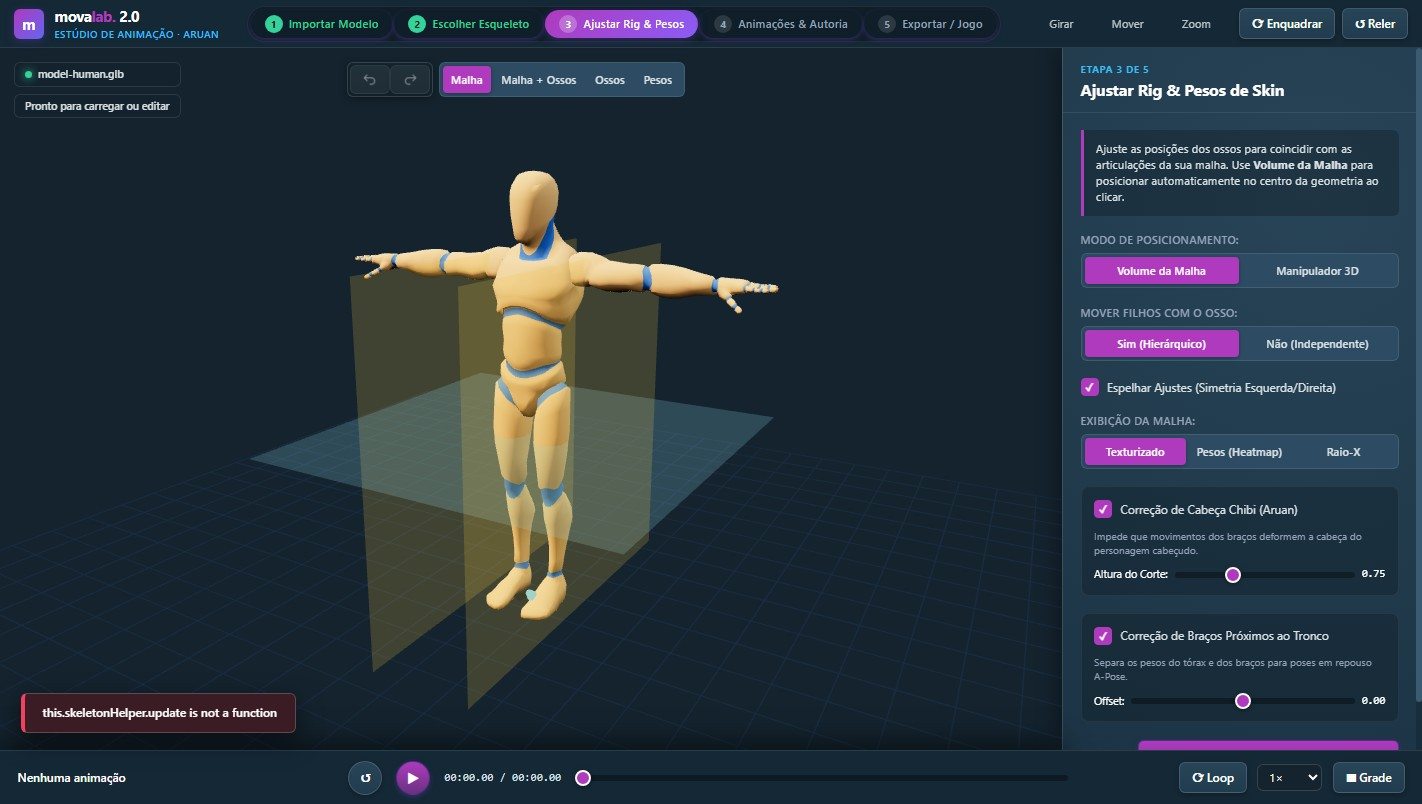
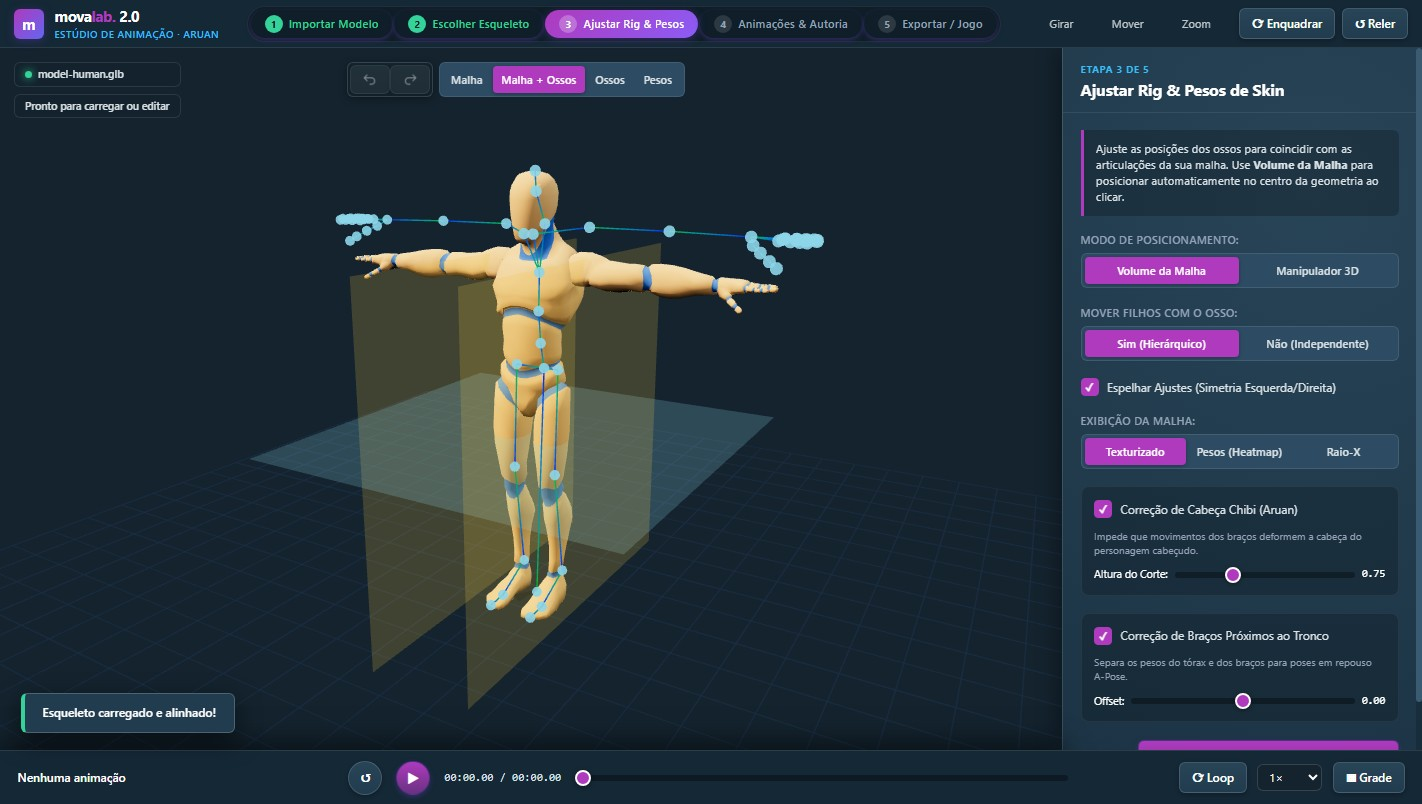
fix(movalab): fix skeleton helper update and ensure skeleton handles are visible in step 2

diff --git a/tools/movalab/app/viewer3d.js b/tools/movalab/app/viewer3d.js
@@ -410,13 +410,17 @@ export class MovaViewer {
     this.templateSkeleton = skeleton;
     this.templateSkeletonRoot = root;
     this.stageGroup.add(root);
+    root.updateWorldMatrix(true, true);
 
     // Create SkeletonHelper
     this.skeletonHelper = new THREE.SkeletonHelper(root);
     this.skeletonHelper.material.depthTest = false;
+    this.skeletonHelper.material.depthWrite = false;
     this.skeletonHelper.material.transparent = true;
-    this.skeletonHelper.material.opacity = 0.9;
+    this.skeletonHelper.material.opacity = 0.95;
     this.skeletonHelper.material.color.set(0x38bdf8);
+    this.skeletonHelper.renderOrder = 999;
+    this.skeletonHelper.visible = true;
     this.scene.add(this.skeletonHelper);
 
     // Build interactive handle pickers for each bone
@@ -435,17 +439,19 @@ export class MovaViewer {
   autoFitSkeleton() {
     if (!this.templateSkeleton || !this.characterMesh) return;
     const root = this.templateSkeletonRoot || this.templateSkeleton.bones[0];
-    RigTemplateService.autoFitSkeletonToMesh(root, this.characterMesh);
+    const fitResult = RigTemplateService.autoFitSkeletonToMesh(root, this.characterMesh);
+    root.updateWorldMatrix(true, true);
     this.updateBoneHandles();
     this.undoRedo.snapshot(this.templateSkeleton);
     this.dirty = true;
+    return fitResult;
   }
 
   scaleSkeleton(scale) {
     if (!this.templateSkeleton) return;
     const root = this.templateSkeletonRoot || this.templateSkeleton.bones[0];
     root.scale.set(scale, scale, scale);
-    root.updateMatrixWorld(true);
+    root.updateWorldMatrix(true, true);
     this.updateBoneHandles();
     this.dirty = true;
   }
@@ -478,24 +484,30 @@ export class MovaViewer {
     this.boneHandles.clear();
     if (!this.templateSkeleton) return;
 
-    const geo = new THREE.SphereGeometry(1.6, 12, 12);
+    const geo = new THREE.SphereGeometry(2.2, 12, 12);
     const mat = new THREE.MeshBasicMaterial({
       color: 0x38bdf8,
       transparent: true,
-      opacity: 0.65,
-      depthTest: false
+      opacity: 0.9,
+      depthTest: false,
+      depthWrite: false
     });
 
     for (const bone of this.templateSkeleton.bones) {
       const handle = new THREE.Mesh(geo.clone(), mat.clone());
+      handle.renderOrder = 1000;
       handle.userData.bone = bone;
       handle.name = 'handle_' + bone.name;
       this.boneHandles.add(handle);
     }
+    this.boneHandles.visible = true;
     this.updateBoneHandles();
   }
 
   updateBoneHandles() {
+    if (this.templateSkeletonRoot) {
+      this.templateSkeletonRoot.updateWorldMatrix(true, true);
+    }
     for (const handle of this.boneHandles.children) {
       const bone = handle.userData.bone;
       if (bone) {
@@ -509,7 +521,9 @@ export class MovaViewer {
         }
       }
     }
-    if (this.skeletonHelper) this.skeletonHelper.update();
+    if (this.skeletonHelper) {
+      this.skeletonHelper.updateMatrixWorld(true);
+    }
     this.dirty = true;
   }
 
@@ -627,25 +641,53 @@ export class MovaViewer {
     this.displayMode = mode;
     if (!this.characterMesh) return;
 
-    if (mode === 'weights' && this.weightsData && this.selectedBone) {
+    if (mode === 'skeleton') {
+      this.characterMesh.visible = false;
+      if (this.skeletonHelper) this.skeletonHelper.visible = true;
+      this.boneHandles.visible = true;
+    } else if (mode === 'mesh') {
+      this.characterMesh.visible = true;
+      if (this.characterMesh.material) {
+        this.characterMesh.material.vertexColors = false;
+        this.characterMesh.material.transparent = false;
+        this.characterMesh.material.opacity = 1.0;
+        this.characterMesh.material.wireframe = this.wireframe;
+        this.characterMesh.material.needsUpdate = true;
+      }
+      if (this.skeletonHelper) this.skeletonHelper.visible = false;
+      this.boneHandles.visible = false;
+    } else if (mode === 'both') {
+      this.characterMesh.visible = true;
+      if (this.characterMesh.material) {
+        this.characterMesh.material.vertexColors = false;
+        this.characterMesh.material.transparent = false;
+        this.characterMesh.material.opacity = 1.0;
+        this.characterMesh.material.wireframe = this.wireframe;
+        this.characterMesh.material.needsUpdate = true;
+      }
+      if (this.skeletonHelper) this.skeletonHelper.visible = true;
+      this.boneHandles.visible = true;
+    } else if (mode === 'weights' && this.weightsData && this.selectedBone) {
+      this.characterMesh.visible = true;
       const boneIndex = this.templateSkeleton?.bones.indexOf(this.selectedBone) ?? 0;
       SkinningPipeline.applyHeatmapColors(this.characterMesh.geometry, Math.max(0, boneIndex), this.weightsData);
       if (this.characterMesh.material) {
         this.characterMesh.material.vertexColors = true;
         this.characterMesh.material.needsUpdate = true;
       }
-    } else {
+      if (this.skeletonHelper) this.skeletonHelper.visible = true;
+      this.boneHandles.visible = true;
+    } else if (mode === 'xray') {
+      this.characterMesh.visible = true;
       if (this.characterMesh.material) {
         this.characterMesh.material.vertexColors = false;
-        this.characterMesh.material.wireframe = mode === 'xray' || this.wireframe;
-        this.characterMesh.material.transparent = mode === 'xray';
-        this.characterMesh.material.opacity = mode === 'xray' ? 0.45 : 1.0;
+        this.characterMesh.material.transparent = true;
+        this.characterMesh.material.opacity = 0.45;
+        this.characterMesh.material.wireframe = this.wireframe;
         this.characterMesh.material.needsUpdate = true;
       }
-    }
-
-    if (this.skeletonHelper) {
-      this.skeletonHelper.visible = mode === 'xray' || mode === 'both' || mode === 'skeleton';
+      if (this.skeletonHelper) this.skeletonHelper.visible = true;
+      this.boneHandles.visible = true;
     }
 
     this.dirty = true;

diff --git a/tools/movalab/app/main.js b/tools/movalab/app/main.js
@@ -86,10 +86,16 @@ function goToStep(step) {
 
   // Viewport context adjustments
   if (state.viewer) {
-    if (step === 3) {
-      // Step 3: show bone handles, guide planes according to settings
+    if (step === 2 || step === 3) {
       state.viewer.boneHandles.visible = true;
       if (state.viewer.skeletonHelper) state.viewer.skeletonHelper.visible = true;
+      const qboth = $('qview-both');
+      if (qboth) qboth.checked = true;
+      state.viewer.setDisplayMode('both');
+    }
+
+    if (step === 3) {
+      // Step 3: show bone handles, guide planes according to settings
       const headCb = $('head-correction-cb');
       const armCb = $('arm-correction-cb');
       state.viewer.setHeadCorrectionPlane(headCb?.checked, Number($('head-height-slider')?.value || 0.75));
@@ -295,7 +301,11 @@ function setupStep2Events() {
   });
 
   $('btn-autofit-skeleton').addEventListener('click', () => {
-    state.viewer.autoFitSkeleton();
+    const fit = state.viewer.autoFitSkeleton();
+    if (fit?.scale) {
+      scaleSlider.value = fit.scale.toFixed(2);
+      $('skeleton-scale-label').textContent = `${Math.round(fit.scale * 100)}%`;
+    }
     showToast('Esqueleto ajustado aos limites da malha!', 'info');
   });
 
@@ -309,6 +319,13 @@ async function loadCurrentTemplateSkeleton() {
   try {
     showToast('Carregando esqueleto template...', 'info');
     await state.viewer.loadSkeletonTemplate(template, hand);
+    const root = state.viewer.templateSkeletonRoot || state.viewer.templateSkeleton?.bones[0];
+    if (root) {
+      const scale = root.scale.y || 1.0;
+      const slider = $('skeleton-scale-slider');
+      if (slider) slider.value = scale.toFixed(2);
+      if ($('skeleton-scale-label')) $('skeleton-scale-label').textContent = `${Math.round(scale * 100)}%`;
+    }
     showToast('Esqueleto carregado e alinhado!', 'success');
   } catch (err) {
     showToast(err.message, 'error');

diff --git a/capturas/timelapse/README.md b/capturas/timelapse/README.md
@@ -6,7 +6,7 @@ Os próximos registros são numerados e capturados no navegador após cada marco
 
 | Sprint / Etapa | Registro | Estado |
 |---|---|---|
-| MovaLab 2.0 / #67 | 076-movalab2-etapa1-import, 076-movalab2-etapa3-rig, 076-movalab2-etapa4-canvas-drawer, 076-movalab2-etapa5-export-publish | Overhaul MovaLab 2.0 UX Mesh2Motion: 5 etapas (Importar, Esqueleto, Rig/Skin, Animações Mixamo e Export/Jogo), auto-rigging funcional, Chibi Head e Arm Plane correction, gaveta A/B Canvas 2D e exportação GLB/ARUAN JSON. Verificado em Chrome headless com zero erros de console. |
+| MovaLab 2.0 / #67 | 076-movalab2-etapa1-import, 076-movalab2-etapa2-skeleton, 076-movalab2-etapa3-rig, 076-movalab2-etapa4-canvas-drawer, 076-movalab2-etapa5-export-publish | Overhaul MovaLab 2.0 UX Mesh2Motion: 5 etapas (Importar, Esqueleto com auto-fit, Rig/Skin, Animações Mixamo e Export/Jogo), auto-rigging funcional, Chibi Head e Arm Plane correction, gaveta A/B Canvas 2D e exportação GLB/ARUAN JSON. Verificado em Chrome headless com zero erros de console. |
 | Sprint9 / Etapa39 / #86 | 075-targeting-soft, 075-targeting-hard, 075-targeting-livre | Branco automático, vermelho no R3 e mira livre sem retícula, com três alvos de fixture no Chrome headless. Controle simulado; aceite físico pendente. |
 | Sprint9 / Etapa39 / #86 | 074-targeting-jogo | R3 trava o boneco, ponto branco no alvo, movimento orientado e troca pelo analógico direito. Chrome headless com Gamepad API simulada; Xbox físico e aceitação de game feel pendentes. |
 | Sprint9 / Etapa39 / #84 | 072-xbox-gamefeel-comparacao, 072-xbox-gamefeel-jogo | Movimento normal/corrida, Mixamo65 e fallback V1, no Canvas real; A tap/hold, B roll, L3 toggle e stamina verificados por Gamepad API simulada. Revisado headless; Xbox físico e aceite artístico pendentes. |
